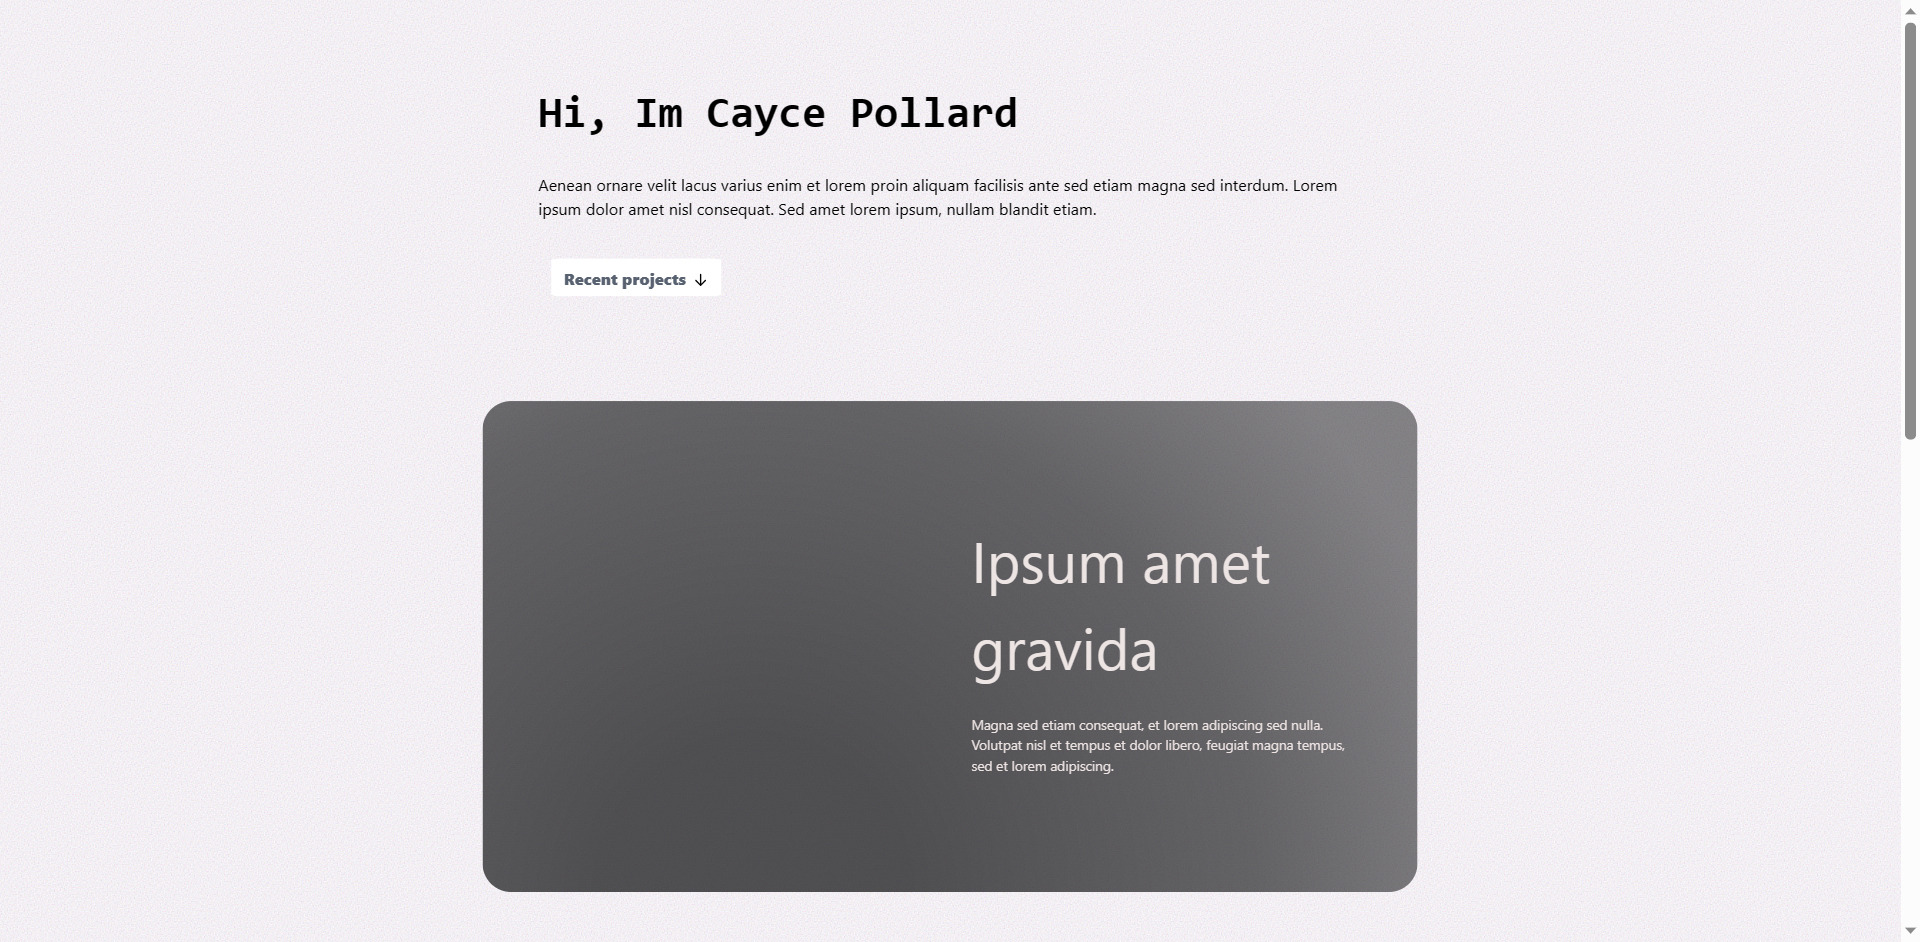
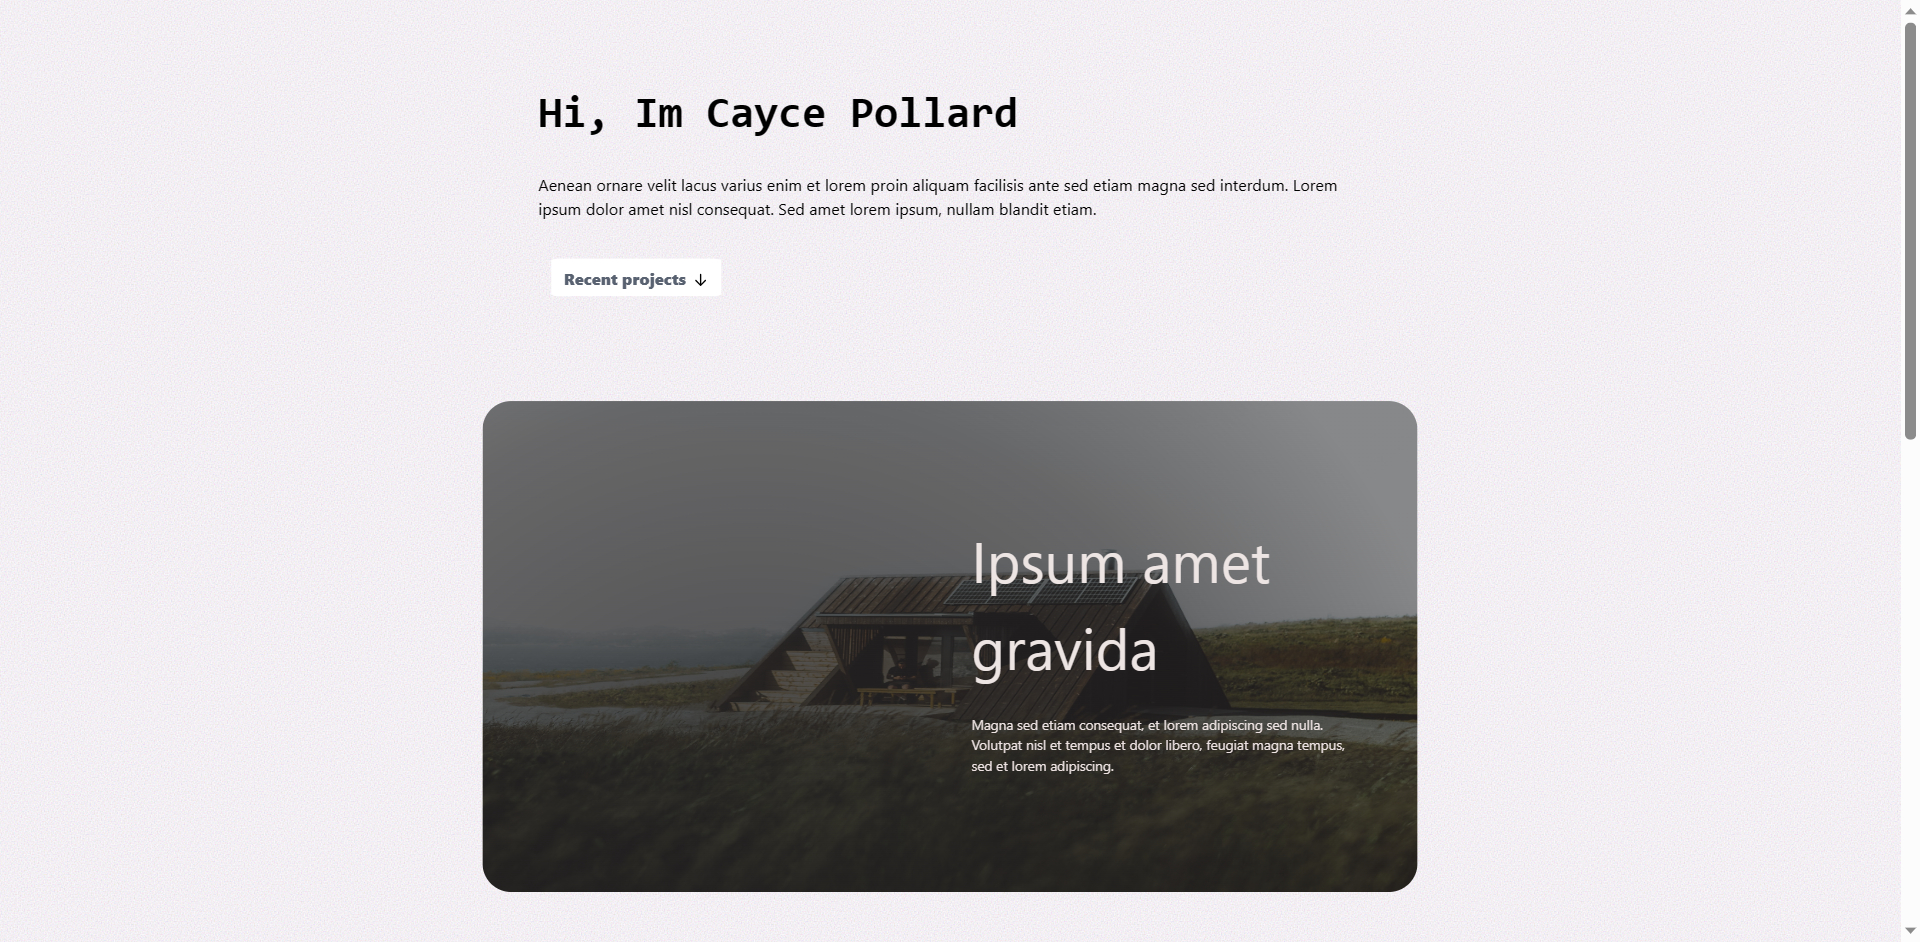
commit

Changed region(s): [[0.25, 0.5849, 0.75, 0.9544]]

diff --git a/frontend/src/pages/DesignList.js b/frontend/src/pages/DesignList.js
@@ -5,8 +5,9 @@ import { RiFileList3Line } from "react-icons/ri";
 import { getTableList, getDesignList } from "../model/Get";
 import { AiOutlinePlus, AiOutlineClose } from "react-icons/ai";
 import { json, useNavigate } from "react-router-dom";
-import { UserContext } from "../components/LoginProvider";
+import { LoginProvider, UserContext } from "../components/LoginProvider";
 import { insertNewTable, createNewDesign } from "../model/Post";
+import { DeleteDesign } from "../model/Delete";
 
 import { BASE_URL } from "../model/config.js";
 
@@ -14,10 +15,10 @@ const DesignList = () => {
   const { value, setValue } = useContext(UserContext);
   const [tableList, setTableList] = useState([]);
   const [refreshList, setRefreshList] = useState(false);
-  const [selectButton, setSelectButton] = useState(false);
+  const [selectButton, setSelectButton] = useState({id: "", isActive: false});
+  const [deleteModal, setDeleteModal] = useState({id: "", isActive: false})
 
   const navigate = useNavigate();
-
   useEffect(() => {
     if (value.Username != undefined) {
       getDesignList(setTableList, value.Username);
@@ -36,24 +37,33 @@ const DesignList = () => {
     localStorage.setItem(`design-valuecounts-${designName}`, e.target.dataset.valuecounts)
   }
 
+  const handleDeleteDesign = (e) =>{
+    const deleteDesignInfo = new Object({
+      user: value,
+      designName: deleteModal.id
+    })
+    DeleteDesign(deleteDesignInfo)
+  }
+
   return (
     <div className="relative">
       <Navbar />
       <Sidebar />
-      <div className="fixed h-full w-full overflow-y-scroll flex justify-center">
-        <div className="pl-[250px] pt-10 h-full w-full flex flex-wrap gap-[50px]">
+      <div className="fixed w-full overflow-y-scroll flex justify-center">
+        <div className="pl-[250px] pt-10 w-full flex flex-wrap gap-[50px]">
           <div
+            id="new"
             className="h-[200px] w-[320px] bg-trasparent rounded-lg border-2 border-dashed border-black 
                        flex justify-center items-center hover:cursor-pointer hover:bg-[#5A5A5A] transition ease-in"
-            onMouseOver={() => {
-              setSelectButton(true);
+            onMouseOver={(e) => {
+              setSelectButton({name: "new", isActive: true});
             }}
-            onMouseOut={() => {
-              setSelectButton(false);
+            onMouseOut={(e) => {
+              setSelectButton({name: "", isActive: false});
             }}
             onClick={handleSelectClick}
           >
-            {selectButton ? (
+            {selectButton.name == "new" && selectButton.isActive == true ? (
               <div className="text-white h-[40px] w-[90px] bg-[#136565] rounded-lg text-center pt-1.5">
                 Select
               </div>
@@ -63,28 +73,122 @@ const DesignList = () => {
             tableList.length > 0 ? 
               tableList.map(design =>{
                 return (
-                  <img
-                  className="h-[200px] w-[320px] rounded-lg border-2 border-black 
-                            flex justify-center items-center hover:cursor-pointer hover:bg-[#5A5A5A] transition ease-in
-                            hover:bg-black
-                            "
-                  src={`${BASE_URL}/images/${design.screenshotimg}`}
-                  id={design.designname}
-                  data-jsonvalue={
-                    JSON.stringify(design.jsonvalue)
-                  }
-                  data-valuecounts={
-                    JSON.stringify(design.valuecounts)
-                  }
-                  onClick={handleNavigateDesign}
-                  key={design.designname}
-                  />
+                  <div className="relative rounded-lg border-2 border-black
+                                  bg-black hover:cursor-pointer 
+                                  design_list_hover"
+                      key={design.designname}
+                      onMouseOver={() => {
+                        setSelectButton({name: design.designname, isActive: true});
+                      }}
+                      onMouseOut={() => {
+                        setSelectButton({name: "", isActive: false});
+                      }}
+                   >
+                    <img
+                    className="h-[200px] w-[320px] rounded-lg
+                                pointer-events-none
+                                design_list_img
+                                "
+                    src={`${BASE_URL}/images/${design.screenshotimg}`}
+                    />
+                    {
+                      selectButton.name == design.designname && selectButton.isActive == true ? (
+                        <div className="absolute 
+                                        top-[50%] transform translate-y-[-50%] 
+                                        left-[50%] transform translate-x-[-50%]
+                                        flex justify-center gap-4
+                                        ">
+                          <div className="
+                                            text-white h-[40px] w-[90px] bg-[#136565] 
+                                            rounded-lg text-center pt-1.5
+                                            " 
+                              onClick={handleNavigateDesign}
+                              key={design.designname}
+                              id={design.designname}
+                              data-jsonvalue={
+                                JSON.stringify(design.jsonvalue)
+                              }
+                              data-valuecounts={
+                                JSON.stringify(design.valuecounts)
+                              }
+                          > 
+                            Select
+                          </div>
+                          <div className="
+                                        text-white h-[40px] w-[90px] bg-[#ff3333] 
+                                        rounded-lg text-center pt-1.5
+                                        " 
+                              id={design.designname}
+                              onClick={() => setDeleteModal({id: design.designname, isActive: true})}
+                          > 
+                            Delete
+                          </div>
+                        </div>
+                      ) : null
+                    }
+                  </div>
                 )
               })
               : null
           }
         </div>
       </div>
+      {/* Delete Begin Modal */}
+      {
+        deleteModal && deleteModal.isActive ? 
+          <div className="fixed top-0 left-0 h-full w-full bg-black z-50 bg-opacity-80 flex justify-center items-center">
+            <div className="h-[15em] w-[25em] bg-white rounded-lg text-center flex justify-center items-center">
+              <div className="">
+                <div className="flex justify-center pb-5"> 
+                  <svg height="80px" 
+                      width="80px"
+                      version="1.1" 
+                      id="_x32_" 
+                      xmlns="http://www.w3.org/2000/svg" 
+                      viewBox="0 0 512 512"  
+                      fill="red"
+                      >
+                  <g>
+                    <path className="st0" d="M437.014,74.978C390.77,28.696,326.608-0.014,256,0C185.393-0.014,121.222,28.696,74.977,74.978
+                      C28.696,121.222-0.015,185.392,0,256c-0.015,70.608,28.696,134.778,74.977,181.022C121.222,483.304,185.393,512.015,256,512
+                      c70.608,0.015,134.77-28.696,181.014-74.978c46.289-46.244,75-110.414,74.986-181.022
+                      C512.014,185.392,483.304,121.222,437.014,74.978z M399.474,112.526c36.763,36.799,59.414,87.355,59.43,143.474
+                      c-0.015,56.118-22.667,106.674-59.43,143.474c-36.807,36.763-87.363,59.416-143.474,59.43
+                      c-56.119-0.014-106.674-22.667-143.474-59.43C75.762,362.674,53.111,312.118,53.096,256
+                      c0.014-56.118,22.666-106.674,59.429-143.474c36.8-36.763,87.356-59.415,143.474-59.43
+                      C312.111,53.112,362.667,75.763,399.474,112.526z"/>
+                    <path className="st0" d="M246.681,303.592c0.312,2.075,1.349,4.067,3.104,5.986c1.748,1.911,3.822,2.866,6.215,2.866
+                      c5.57,0,8.681-2.948,9.311-8.852l18.644-143.214c0.311-2.533,0.474-6.126,0.474-10.748c0-7.17-2.466-13.689-7.4-19.593
+                      c-4.94-5.889-11.948-8.837-21.029-8.837c-9.415,0-16.496,3.022-21.266,9.066c-4.778,5.904-7.171,12.356-7.171,19.364
+                      c0,4.31,0.156,7.888,0.474,10.748L246.681,303.592z"/>
+                    <path className="st0" d="M256,390.792c8.118,0,14.962-2.778,20.548-8.362c5.57-5.563,8.356-12.422,8.356-20.541
+                      c0-8.126-2.785-14.978-8.356-20.556c-5.414-5.422-12.266-8.126-20.548-8.126c-8.118,0-14.971,2.8-20.556,8.364
+                      c-5.578,5.585-8.356,12.348-8.356,20.318c0,7.637,2.778,14.407,8.356,20.303C241.029,387.934,247.882,390.792,256,390.792z"/>
+                  </g>
+                  </svg>
+                </div>
+                <p className="pb-[10px]">You sure, you really wanna delete this web design ?</p>
+                <button className="mx-3 text-white h-[40px] w-[90px] bg-[#ff3333] 
+                                  rounded-lg text-center
+                                  hover:bg-opacity-[0.8]
+                                  "
+                  onClick={handleDeleteDesign}
+                        >
+                  Delete
+                </button>
+                <button className="mx-3 text-white h-[40px] w-[90px] bg-[#136565] 
+                                  rounded-lg text-center
+                                  hover:bg-opacity-[0.8]
+                                  "
+                  onClick={() => setDeleteModal({id : "", isActive : false})}                  
+                >
+                  Cancel
+                </button>
+              </div>
+            </div>
+          </div>
+          : null }
+      {/* Delete End Modal */}
     </div>
   );
 };

diff --git a/frontend/src/pages/Design.js b/frontend/src/pages/Design.js
@@ -21,6 +21,7 @@ const Design = () => {
     name: undefined,
     values: {},
   });
+
   const [inputColorPicker, setInputColorPicker] = useState({name: "", id: ""});
   const [refresh, setRefresh] = useState(false);
   const [colorUpdate, setColorUpdate] = useState({});
@@ -128,7 +129,9 @@ const Design = () => {
   const[buttonParentCount, setButtonParentCount] = useState(1)
   const[buttonCount, setButtonCount] = useState(1)
   const[orderObj, setOrderObj] = useState(1)
+
   const [imageData, setImageData] = useState([])
+  const [singleDesign, setSingleDesign] = useState(null)
 
   const uploadImageRef = useRef(null);
   const refAddElement = useRef(null);
@@ -285,14 +288,20 @@ const Design = () => {
           orderObj,
         })
 
+        console.log("singleDesign", singleDesign);
+
         let testFile
 
         htmlToImage.toJpeg(editContainerRef.current).then(function(dataUrl){
           testFile = dataURLtoFile(dataUrl, designTable + "Screenshot.jpg");
           imageData.push(testFile)
-          console.log("imageData", imageData);
           postImage(imageData)
-          udpateNewDesign(designTable, jsonValue.elements, value, valuecounts, testFile.name)
+
+          if(singleDesign != null){
+            udpateNewDesign(designTable, jsonValue.elements, value, valuecounts, testFile.name)
+          } else {
+            createNewDesign(designTable, jsonValue.elements, value, valuecounts, testFile.name)
+          }
         })
 
         function dataURLtoFile(dataurl, filename) {
@@ -304,7 +313,7 @@ const Design = () => {
           while(n--){
               u8arr[n] = bstr.charCodeAt(n);
           }
-          return new File([u8arr], filename, {type:mime});
+          return new File([u8arr], filename, {type:mime})
       }
         console.log("Save the jsonValue");
       }
@@ -344,6 +353,9 @@ const Design = () => {
   useEffect(() =>{
     const isExist = JSON.parse(localStorage.getItem(`design-jsonvalue-${designTable}`))
     if(isExist){
+      if(Object.keys(value).length > 0){
+        getDesignSingle(setSingleDesign, value, designTable)
+      }
       const valuecounts = JSON.parse(localStorage.getItem(`design-valuecounts-${designTable}`))
       setContainerCount(containerCount + valuecounts.containerCount)
       setColumnsCount(columnsCount + valuecounts.columnsCount)
@@ -356,7 +368,7 @@ const Design = () => {
       setOrderObj(orderObj + valuecounts.orderObj)
       setJsonValue({elements : [isExist]})
     }
-  },[])
+  },[value])
 
   useEffect(() => {
     HtmlRenderFunction(

diff --git a/frontend/src/components/HtmlRenderFunction.js b/frontend/src/components/HtmlRenderFunction.js
@@ -125,23 +125,18 @@ const HtmlRenderFunction = (
               radial_gradient != "" ? radial_gradient.slice(0, -1) : "";
               
             const url = element.background_style_types[background_type].background_url
-            
+
             if (radial_gradient == "") {
                 newDiv.style.backgroundImage =
                   url;
                 newDiv.style.backgroundSize = "100% 100%";
             } else {
-              let newUrl
-              if(url.name == undefined){
-                 newUrl = `${BASE_URL}/images/${url}`
-              }else {
-                newUrl = url.url
-              }
+              const newUrl = `${BASE_URL}/images/${url.name}`
               newDiv.style.backgroundImage = `
               radial-gradient(79% 150% at 29% 100%, ${radial_gradient}),
               url("${newUrl}")`;
               newDiv.style.backgroundSize = "100% 100%";
-            } 
+            }
 
             // if (radial_gradient == "") {
             //   newDiv.style.backgroundImage =

diff --git a/backend/server.js b/backend/server.js
@@ -361,8 +361,10 @@ app.get("/designlist/:user/:designName", async (req, res) => {
       name : designName
     }
   });
-  res.send(result[0])
-});
+
+  console.log(result);
+  res.send(result)
+}); 
 
 const storage = multer.diskStorage({
   destination: (req, file, cb) => {
@@ -405,6 +407,17 @@ app.put("/update-design", async(req, res)=>{
       jsonValue: designObjects,
       valuecounts: valuecounts,
       screenshotimg
+    }
+  });
+  res.send(result)
+})
+
+app.delete("/delete-design", async(req, res) =>{
+  const {user, designName} = req.body
+  sunsql.designTable.init(user.Username);
+  const result = await sunsql.designTable.deleteMany({
+    where:{
+      name : designName,
     }
   });
   res.send(result)

diff --git a/frontend/src/Model/Get.js b/frontend/src/Model/Get.js
@@ -42,14 +42,14 @@ const getDesignList = async (setTableList, user) => {
   }
 };
 
-const getDesignSingle = async (setTest, user, designName) => {
+const getDesignSingle = async (setSigleDesign, user, designName) => {
   try {
     const response = await axios({
       method: "get",
       url: `${BASE_URL}/designlist/${user.Username}/${designName}`,
     });
     const data = await response.data;
-    setTest(data)
+    setSigleDesign(data)
   } catch (err) {
     console.error(err);
   }

diff --git a/frontend/src/Model/Delete.js b/frontend/src/Model/Delete.js
@@ -30,4 +30,18 @@ const DeleteColumn = async (deleteColumnInfo) => {
   }
 };
 
-export { DeleteRow, DeleteColumn };
+const DeleteDesign = async (deleteDesignInfo) => {
+  try {
+    const response = await axios({
+      method: "delete",
+      url: `${BASE_URL}/delete-design`,
+      data: deleteDesignInfo,
+    });
+    const data = await response.data;
+    return data;
+  } catch (err) {
+    console.error(err);
+  }
+};
+
+export { DeleteRow, DeleteColumn, DeleteDesign };

diff --git a/frontend/src/index.css b/frontend/src/index.css
@@ -9,6 +9,13 @@
 }
 
 @layer components {
+  .design_list_img{
+    opacity: 1;
+  }
+
+  .design_list_hover:hover .design_list_img{
+    opacity: 0.7;
+  }
 
   .button:hover {
     transform: scale(1.2);
